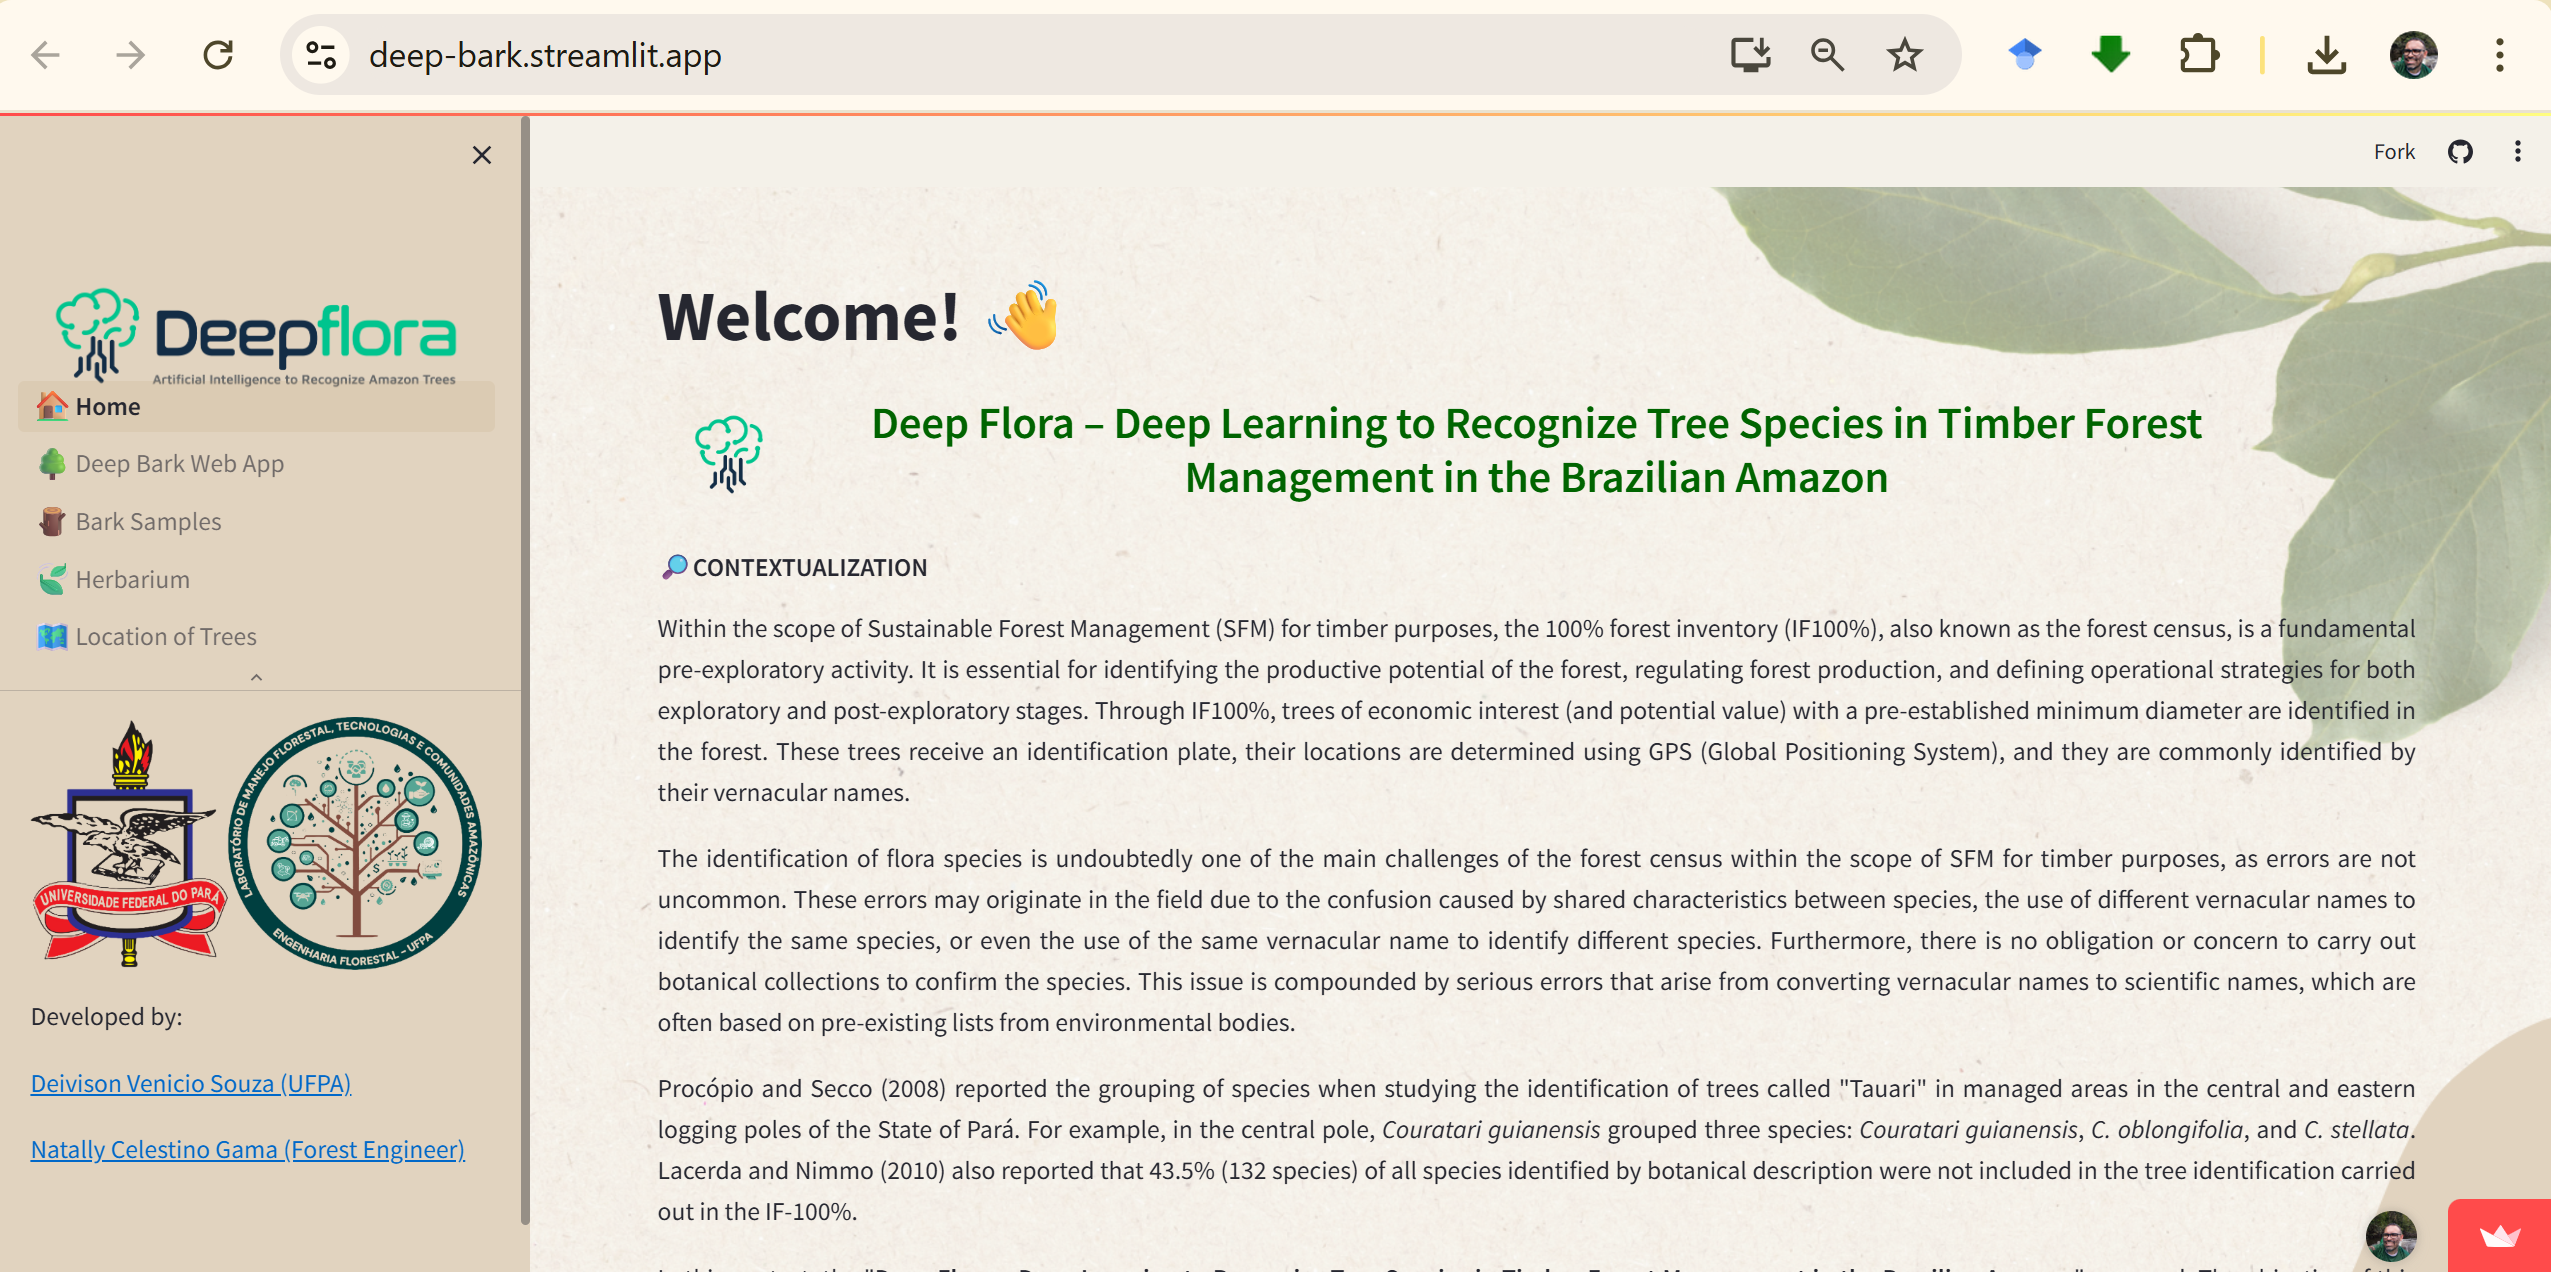
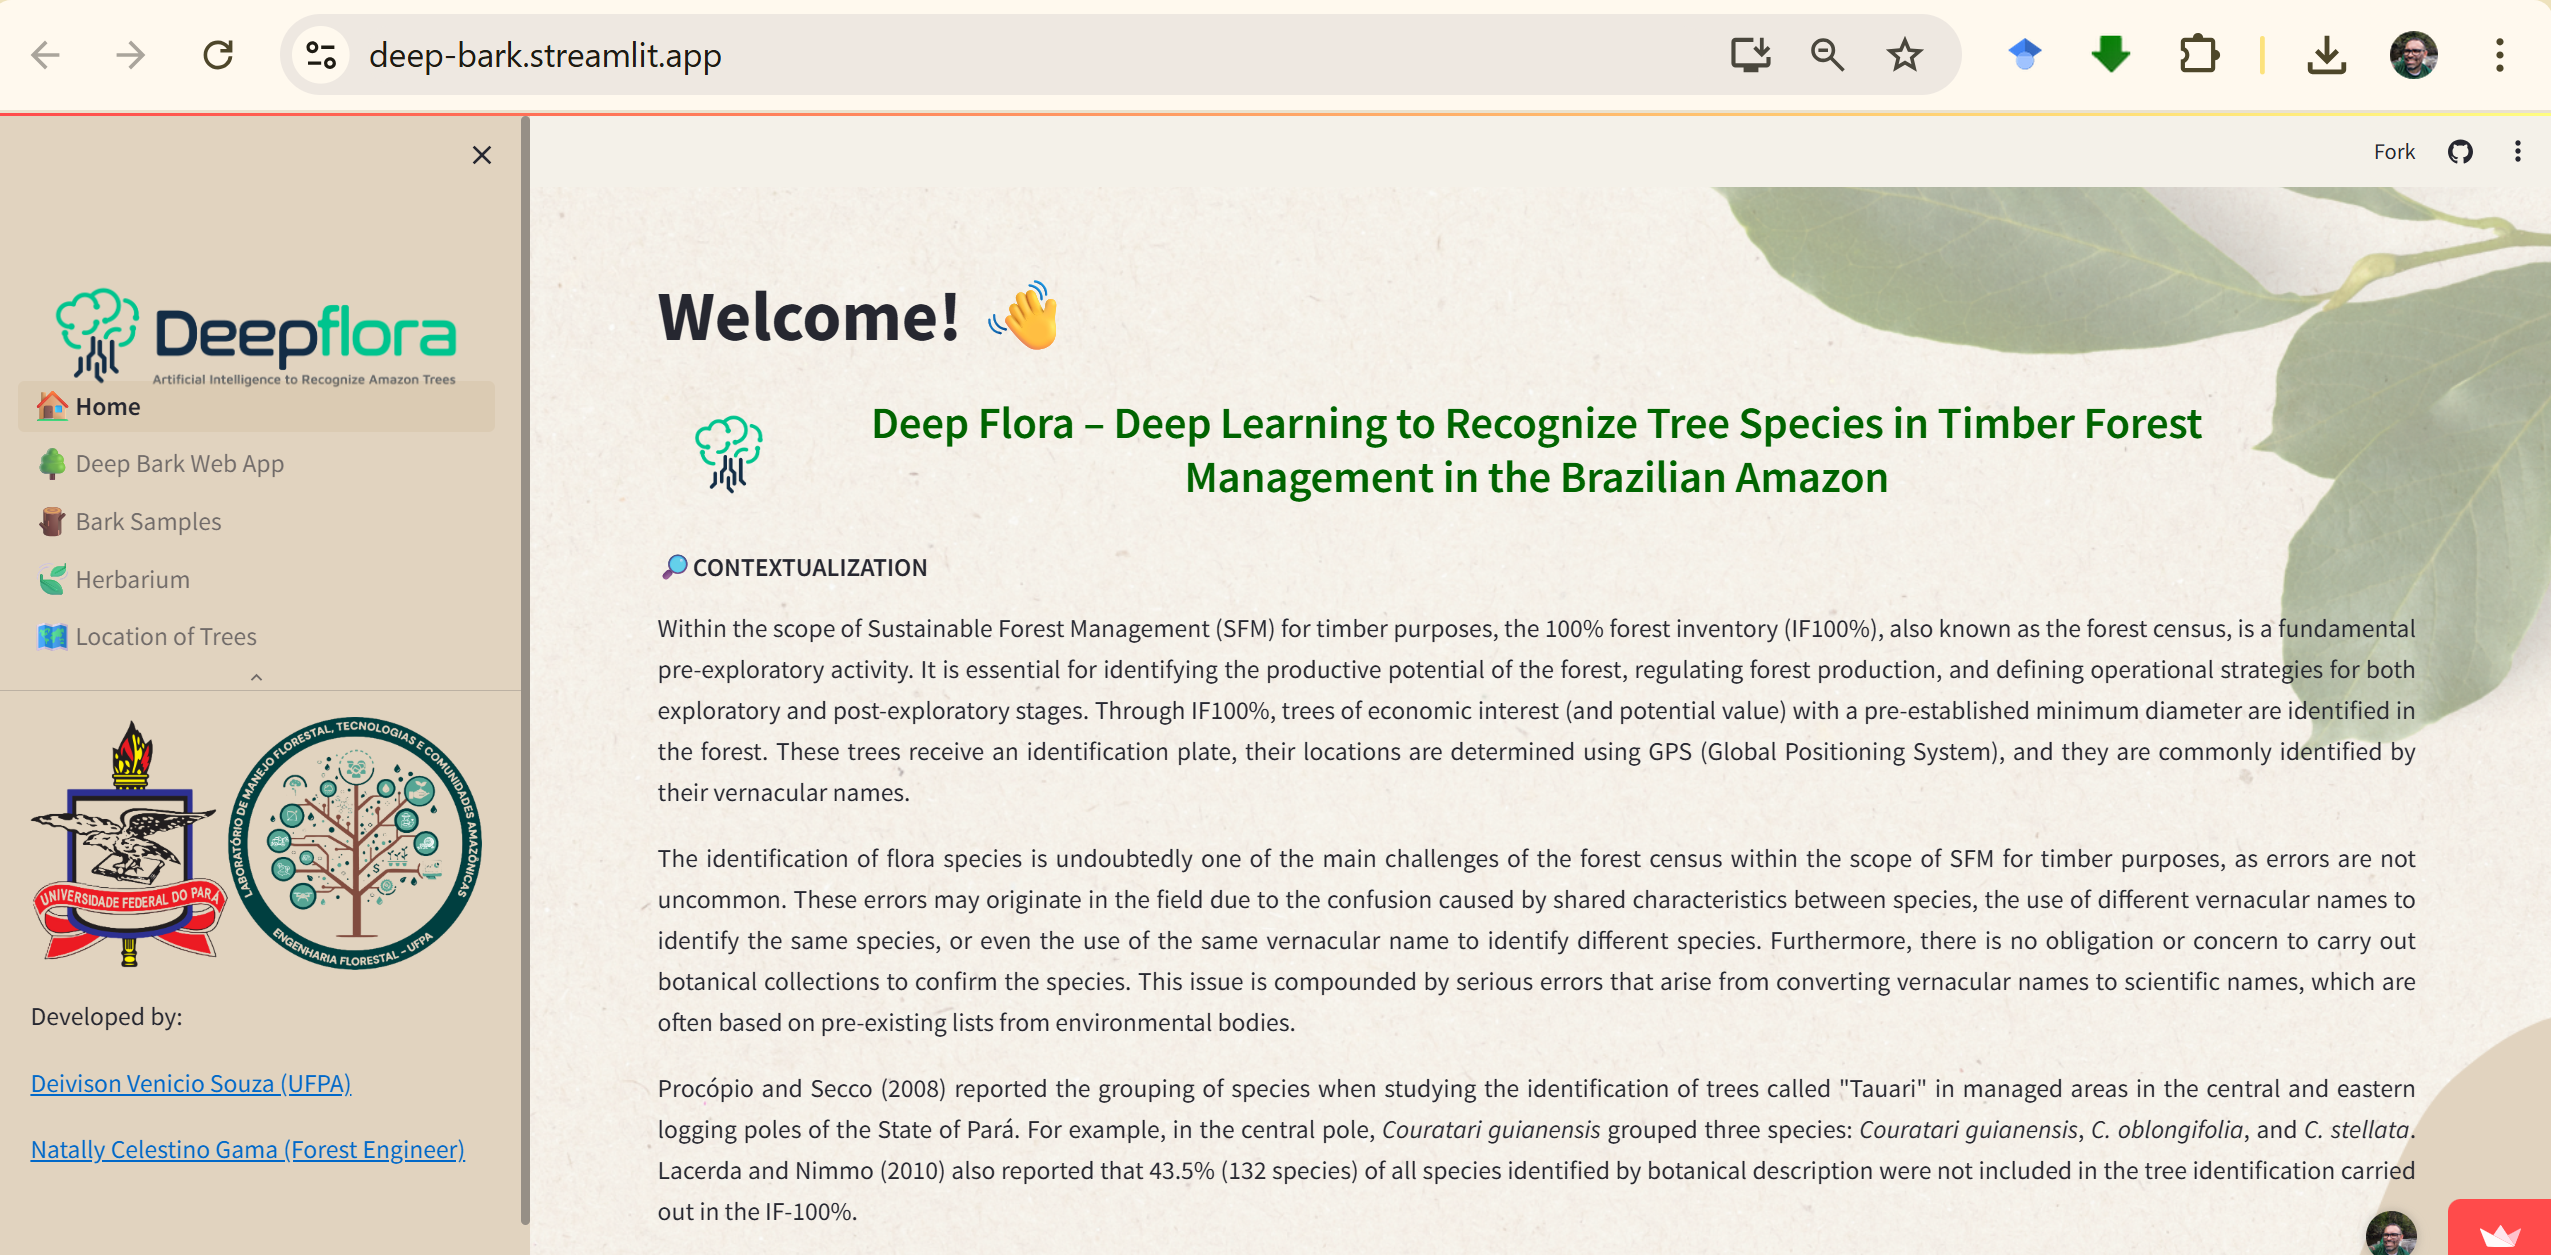
Update

diff --git a/Slides/01-CNN-Flora.html b/Slides/01-CNN-Flora.html
@@ -179,7 +179,7 @@ background-size: 100px, cover
 ## 🔍 Aplicações de CNN nas Ciênciais Florestais
 
 &lt;img src="fig/appcf.png" width="80%" style="display: block; margin: auto;" /&gt;
-.center[.font80[**Fonte**: O autor (2025)]]
+.center[.font80[**Fonte**: O autor (2025).]]
 
 ---
 ## 🔍 Aplicações de CNN nas Ciênciais Florestais
@@ -189,14 +189,14 @@ background-size: 100px, cover
 .center[.blue[Detecção de troncos de árvores e estimativa de diâmetro...]]
 &lt;br&gt;
 &lt;img src="fig/grondin.jpeg" width="90%" style="display: block; margin: auto;" /&gt;
-.center[.font80[**Fonte**: Grondin et al., 2023]]
+.center[.font80[**Fonte**: Grondin et al. (2023).]]
 
 ---
 ## 🔍 Aplicações de CNN nas Ciênciais Florestais
 
 .pull-left-9[
 &lt;img src="fig/Fu.jpg" width="90%" style="display: block; margin: auto;" /&gt;
-.center[.font80[**Fonte**: Fu et al., 2024]]
+.center[.font80[**Fonte**: Fu et al. (2024).]]
 ]
 
 .pull-right-9[
@@ -220,7 +220,7 @@ background-size: 100px, cover
 .pull-left-9[
 &lt;br&gt;&lt;br&gt;
 &lt;img src="fig/Fu2.jpg" width="100%" style="display: block; margin: auto;" /&gt;
-.center[.font80[**Fonte**: Fu et al., 2024]]
+.center[.font80[**Fonte**: Fu et al. (2024).]]
 
 &lt;br&gt;
 
@@ -255,7 +255,7 @@ background-size: 100px, cover
 - (b): Pinheiros mortos
 - (c): Pinheiros doentes e mortos
 
-.center[.font80[**Fonte**: Hu et al., 2022]]
+.center[**Fonte**: Hu et al. (2022).]
 ]
 
 ---
@@ -270,7 +270,7 @@ background-size: 100px, cover
 - **Caixas amarelas**: indicam os pinheiros mortos.
 - **Caixas vermelhas**: indicam os pinheiros doentes.
 
-.center[.font80[**Fonte**: Hu et al., 2022]]
+.center[**Fonte**: Hu et al. (2022).]
 ]
 
 ---
@@ -278,7 +278,7 @@ background-size: 100px, cover
 
 .pull-left-9[
 &lt;img src="fig/Ehtis1.jpg" width="100%" style="display: block; margin: auto;" /&gt;
-.center[.font80[**Fonte**: Ehtisham et al., 2024]]
+.center[.font80[**Fonte**: Ehtisham et al. (2024).]]
 ]
 
 .pull-right-9[
@@ -299,7 +299,7 @@ background-size: 100px, cover
 
 .pull-left-9[
 &lt;img src="fig/Ehtis2.jpg" width="70%" style="display: block; margin: auto;" /&gt;
-.center[.font80[**Fonte**: Ehtisham et al., 2024]]
+.center[.font80[**Fonte**: Ehtisham et al. (2024).]]
 ]
 
 .pull-right-9[
@@ -320,7 +320,7 @@ background-size: 100px, cover
 &lt;br&gt;
 .pull-left-9[
 &lt;img src="fig/Ehtis3.jpg" width="100%" style="display: block; margin: auto;" /&gt;
-.center[.font80[**Fonte**: Ehtisham et al., 2024]]
+.center[.font80[**Fonte**: Ehtisham et al. (2024).]]
 ]
 
 .pull-right-9[
@@ -341,7 +341,7 @@ background-size: 100px, cover
 &lt;br&gt;
 .pull-left-9[
 &lt;img src="fig/Ehtis4.jpg" width="100%" style="display: block; margin: auto;" /&gt;
-.center[.font80[**Fonte**: Ehtisham et al., 2024]]
+.center[.font80[**Fonte**: Ehtisham et al. (2024).]]
 ]
 
 .pull-right-9[
@@ -362,7 +362,7 @@ background-size: 100px, cover
 &lt;br&gt;
 .pull-left-9[
 &lt;img src="fig/Sun.png" width="70%" style="display: block; margin: auto;" /&gt;
-.center[.font80[**Fonte**: Sun et al., 2021]]
+.center[.font80[**Fonte**: Sun et al. (2021).]]
 ]
 
 .pull-right-9[
@@ -385,7 +385,7 @@ background-size: 100px, cover
 &lt;br&gt;
 .pull-left-3[
 &lt;img src="fig/Sun2.png" width="100%" style="display: block; margin: auto;" /&gt;
-.center[.font80[**Fonte**: Sun et al., 2021]]
+.center[.font80[**Fonte**: Sun et al. (2021).]]
 ]
 
 .pull-right-3[
@@ -729,7 +729,7 @@ background-size: 400px, cover
 &lt;br&gt;
 
 &lt;img src="fig/treebark.png" width="65%" style="display: block; margin: auto;" /&gt;
-.font80[**Fonte**: Gama et al., 2025]
+.center[.font80[**Fonte**: Gama et al., 2025]]
 
 ---
 layout: true
@@ -737,7 +737,6 @@ background-image: url(fig/deepflora2.png), url(fig/cont.png)
 background-position: 98% 50%
 background-size: 200px, cover
 ---
-
 ## 📷 Amazon Bark Dataset
 
 .pull-left-11[
@@ -765,9 +764,7 @@ background-size: 400px, cover
 - **Aplicação Web**: Sistema baseado em .blue[visão computacional e aprendizado profundo] (*deep learning*) para reconhecer .blue[16 espécies] da flora Amazônica de valor comercial madeireiro, baseado em .blue[imagens digitais de cascas externas] (ritidoma) de árvores.
 - **Modelo de Reconhecimento**: .orange[Natally Celestino Gama] (Dissertação de Mestrado/PPGBC/UFPA)
 - **Acesse aqui**: [Dissertação de Mestrado](chrome-extension://efaidnbmnnnibpcajpcglclefindmkaj/https://ppgbc.propesp.ufpa.br/ARQUIVOS/dissertacoes/2024/Natally_Celestino_07.06.24.pdf)
-- **Artigo**: .green[Forests]
 &lt;br&gt;
-
 ]
 ]
 ]
@@ -775,14 +772,23 @@ background-size: 400px, cover
 ---
 layout: true
 background-image: url(fig/deepflora2.png), url(fig/cont.png)
-background-position: 98% 50%
+background-position: 100% 50%
 background-size: 200px, cover
+---
+## 👩🔬 Publicação científica
+
+.pull-left-16[
+&lt;img src="fig/paper.png" width="80%" style="display: block; margin: auto;" /&gt;
+
+.center[.font80[**Acesse aqui**: [Gama et al., 2025](https://doi.org/10.3390/f16091374)]]
+]
+
 ---
 ## 🌳 DeepBark - Aplicação Web (Modelo)
 
 .pull-left-16[
-&lt;img src="fig/deepbark.png" width="85%" style="display: block; margin: auto;" /&gt;
-
+&lt;img src="fig/deepbark.png" width="80%" style="display: block; margin: auto;" /&gt;
+.center[.font80[**Fonte**: O autor (2025).]]
 .center[.font80[**Acurácia**: .blue[95%] (de cada 100 imagens acerta 95)]]
 ]
 
@@ -791,6 +797,7 @@ background-size: 200px, cover
 
 .pull-left-16[
 &lt;img src="fig/inter.png" width="90%" style="display: block; margin: auto;" /&gt;
+.center[.font80[**Fonte**: O autor (2025).]]
 ]
 
 ---
@@ -799,12 +806,14 @@ background-size: 200px, cover
 .center[
 &lt;iframe width="760" height="515" src="https://www.youtube.com/embed/a6-HWc7GDJw?si=9zpwC3DdqiFdghzn" title="YouTube video player" frameborder="0" allow="accelerometer; autoplay; clipboard-write; encrypted-media; gyroscope; picture-in-picture; web-share" referrerpolicy="strict-origin-when-cross-origin" allowfullscreen&gt;&lt;/iframe&gt;
 ]
+.center[.font80[**Fonte**: O autor (2025).]]
 
 ---
 ## 🌳 DeepBark - Aplicação Web (Considerações finais)
 
 .pull-left-16[
 &lt;img src="fig/lim.png" width="90%" style="display: block; margin: auto;" /&gt;
+.center[.font80[**Fonte**: O autor (2025).]]
 ]
 
 ---
